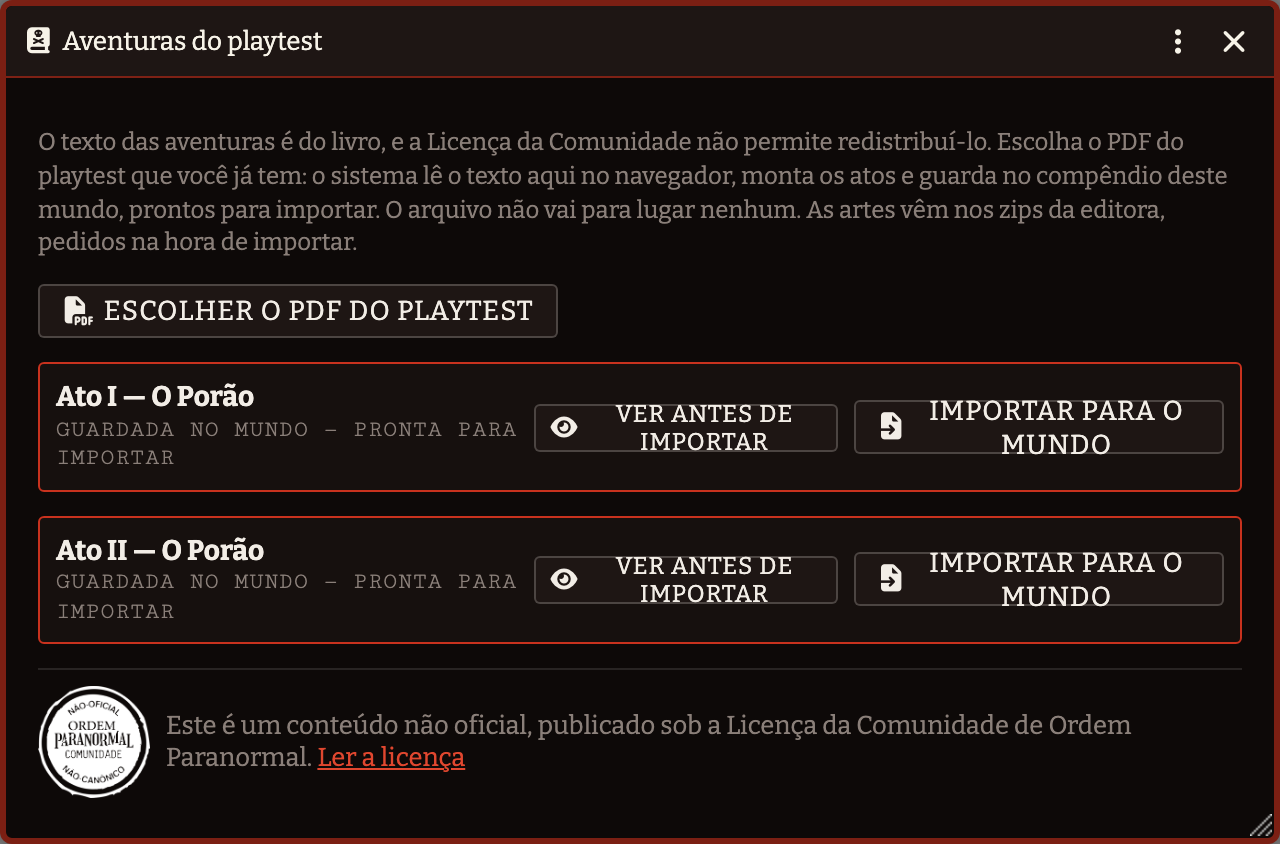
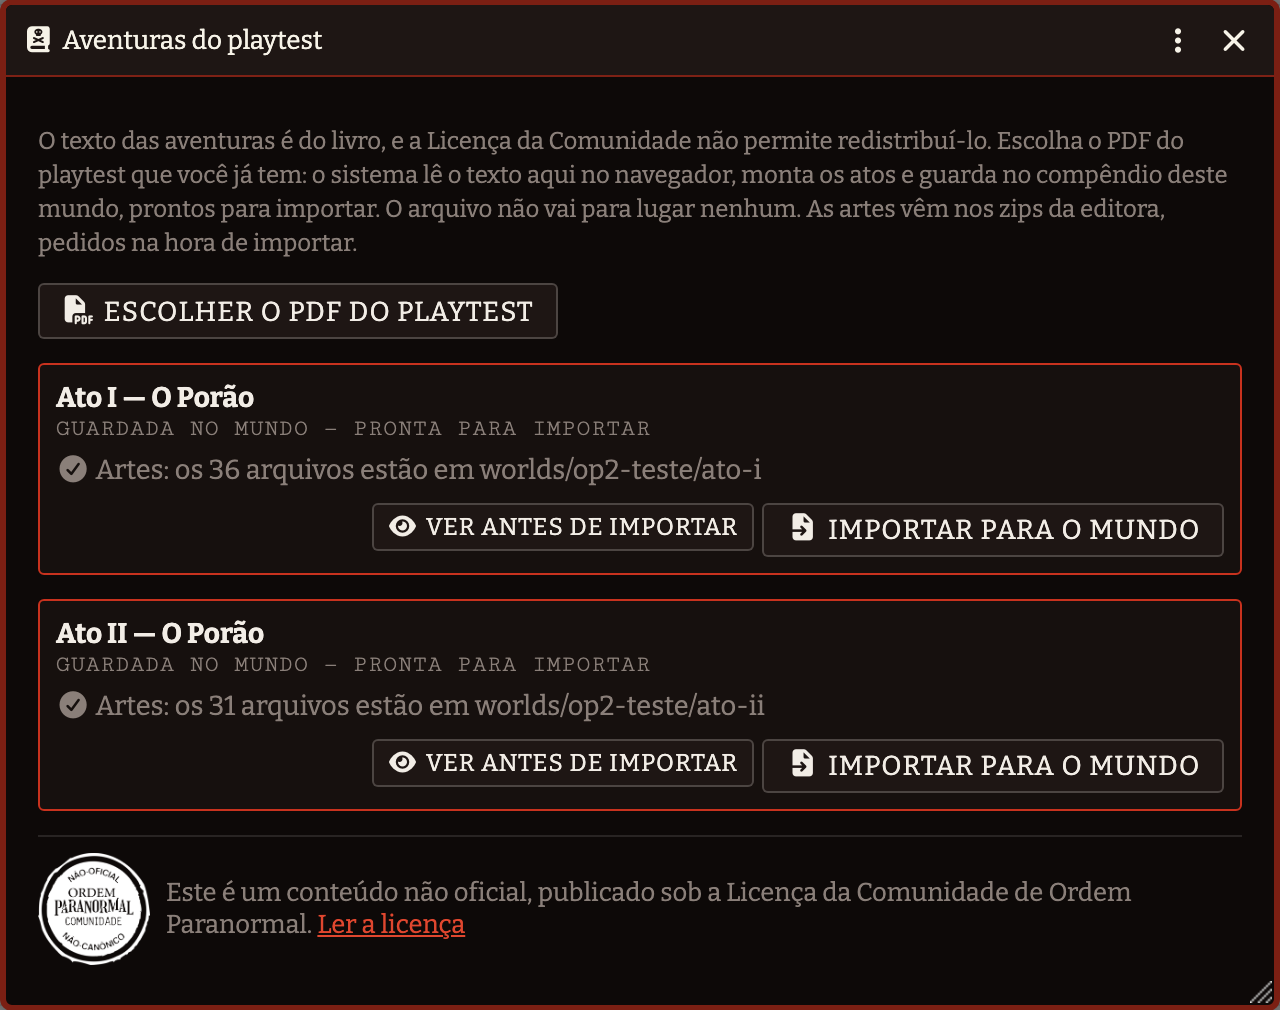
fix(aventuras): contradição do livro vira aviso, e a janela mostra as artes e oferece o zip
A revisão 1.1 do playtest imprime "SEU FILHO," num conjunto do Rádio e "sua
filha" na solução; a montagem lançava e o Ato II inteiro não montava — e a
janela dizia "Falta o PDF". Agora a peça mais parecida entra como verdadeira,
o aviso aparece na janela ao lado da conferência, e erro de montagem aparece
como "Não montada", com a mensagem.

A janela também diz o que há das artes na pasta do mundo e tem o botão de
enviar o zip antes de importar; os botões não quebram mais o texto. As
conferências dos dois atos rodam em paralelo — em série a janela demorava a
abrir.

`rodar.mjs --completo` passa a montar os dois atos: extração idêntica não
garantia montagem, e a revisão 1.1 só quebrava na janela. O e2e roda com o
PDF v1.1, confere o botão do zip e os botões numa linha, e ganhou um sinal de
vida a cada 90 s (print + janelas abertas). Foi ele que achou o travamento
intermitente: `cena.activate()` resolve antes de o canvas trocar de cena, o
redesenho limpava a mira e `atacar` abria o diálogo de alvo, prendendo a
suíte. O harness agora espera o canvas e falha em voz alta. O capturar
fotografa a caixa do elemento, sem a espera de "estável" do Playwright.

diff --git a/styles/parciais/_extras.scss b/styles/parciais/_extras.scss
@@ -111,6 +111,7 @@
     // Um ato por linha: nome e estado à esquerda, o que dá para fazer à direita.
     .op2-aventuras__ato {
       display: flex;
+      flex-wrap: wrap;
       align-items: center;
       padding: var(--op2-e2);
       border: 1px solid var(--op2-linha);
@@ -119,6 +120,33 @@
       gap: var(--op2-e2);
 
       &--pronto { border-color: var(--op2-vermelho); }
+    }
+
+    // Os botões numa linha só, sem quebrar o texto; se não couberem ao lado do
+    // nome, descem inteiros para a linha de baixo.
+    .op2-aventuras__acoes {
+      display: flex;
+      flex-wrap: wrap;
+      margin-left: auto;
+      gap: var(--op2-e1);
+
+      .op2-botao { white-space: nowrap; flex: 0 0 auto; }
+    }
+
+    .op2-aventuras__artes {
+      margin-top: var(--op2-e1);
+      color: var(--op2-texto-fraco);
+      font-size: 0.85rem;
+
+      &--faltam { color: var(--op2-vermelho-claro); }
+    }
+
+    .op2-aventuras__erro-detalhe {
+      display: block;
+      margin-top: var(--op2-e1);
+      font-size: 0.75rem;
+      white-space: pre-wrap;
+      word-break: break-word;
     }
 
     .op2-aventuras__identidade {

diff --git a/.claude/skills/revisar-extrator/SKILL.md b/.claude/skills/revisar-extrator/SKILL.md
@@ -34,6 +34,12 @@ node scripts/extrator/rodar.mjs <pdf> <pasta-do-gabarito> --texto --completo
 - Escreve `build/js/*.json` (o que o Foundry montaria) e `build/js/texto.txt` (a grade,
   para olhar).
 - Compara com o gabarito e lista diferença por caminho (`ato-i-pontos[13].informacoes[4].dt`).
+- **Monta os dois atos** (`montarAtoI`/`montarAtoII`, os mesmos da janela) e imprime
+  `montagem Ato II: … ok` ou `FALHOU — <erro>`, com os avisos da montagem. Extração
+  idêntica não garante montagem: a revisão 1.1 passou na comparação e derrubava o Ato
+  II na janela, porque o Rádio imprime "SEU FILHO," no conjunto e "sua filha" na
+  solução. A montagem agora avisa e segue; a lição é que **a revisão só está testada
+  quando montou** — extração, montagem e e2e, nunca só a comparação.
 - `OP2_MAX_DIFS=80` mostra mais linhas.
 
 **Gabaritos:**
@@ -97,9 +103,11 @@ node scripts/extrator/rodar.mjs <pdf> <pasta-do-gabarito> --texto --completo
 1. Ponha os arquivos em `jambo-arquivos/vN/…`.
 2. Rode a revisão anterior e guarde: `cp -r build/js build/js-anterior`.
 3. Rode a nova contra `build/js-anterior` (`--completo --texto`), e também o PDF
-   gratuito da revisão.
+   gratuito da revisão. Olhe as linhas `montagem Ato I/II`: têm que dizer `ok`, e
+   cada aviso é uma contradição do livro para registrar em `docs/LACUNAS.md`.
 4. Classifique cada diferença. Texto que mudou no livro: legítimo. Estrutura que mudou
    (contagem de pontos, linhas, DTs, perícias): investigue.
 5. `npm run check` e, com o Foundry descartável, `npm run e2e` com `OP2_E2E_PDF`
-   apontando para o PDF novo.
+   apontando para o PDF novo — é ele que abre a janela, monta e importa de verdade.
+   Sem esse passo a revisão **não** está testada.
 6. Atualize esta skill se aprendeu uma regra nova.

diff --git a/README.md b/README.md
@@ -213,6 +213,11 @@ gratuito basta para o Ato I.
 
 ![Janela de aventuras do playtest](docs/img/aventuras-do-playtest.png)
 
+A janela também diz o que há das artes na pasta do mundo e oferece **Enviar zip das
+artes** antes de importar — é o zip gratuito do Ato I do site da editora, e o dos
+Arquivos Secretos para o Ato II. Se você importar sem enviar, o importador pede o zip
+na hora.
+
 **Importe `Ato I — O Porão`** e o mundo recebe a cena com as paredes, a trilha, os
 cinco pré-gerados, os handouts, os pontos de interesse com o quadro de informações
 preenchido, os desafios e uma investigação com tudo já vinculado — mesa montada.
@@ -338,6 +343,9 @@ completo do playtest (o gratuito para no Ato I, e a janela diz isso). O extrator
 p. 72–103, confere cada ponto contra a tabela *Locais de uso de cada ferramenta* do
 livro — divergência aparece na janela como aviso, para conferir no livro — e a aventura
 `Ato II — O Porão` fica no compêndio do mundo. Ao importar, ela pede o zip das artes.
+Contradição do próprio livro também vira aviso, não erro: a revisão 1.1 imprime "SEU
+FILHO," num conjunto do Rádio e "sua filha" na solução, e a montagem toma o conjunto
+mais parecido como verdadeiro e avisa.
 
 Para o desenvolvimento, os mesmos geradores rodam no Node e escrevem os packs locais que
 o e2e usa:

diff --git a/scripts/e2e/README.md b/scripts/e2e/README.md
@@ -94,6 +94,13 @@ node scripts/e2e/verificar.mjs http://localhost:30099 /tmp
 Sai com código 1 se alguma verificação falhar ou se houver erro no console do browser.
 Grava `e2e-foundry.png` na pasta de saída.
 
+O relatório só sai no fim (uns 5 minutos). No meio, a cada 90 s, o harness escreve em
+stderr um sinal de vida — `[e2e 180s] print ok; janelas: …; console: …` — e um print
+do estado em `e2e-andamento.png` na pasta de saída. **Silêncio por mais de 90 s é
+travamento**, não lentidão: um diálogo aberto prende o `page.evaluate` para sempre.
+Olhe o print e a lista de janelas para achar o diálogo; se o print "trava", a página
+está presa em JS.
+
 Com `docs/Ordem-2-Playtest-Alpha-Ato-II-Extras.zip` presente, o harness também importa
 o Ato II pelo caminho de verdade: entrega o zip ao importador pelo `<input type=file>`,
 espera o upload, e confere no mundo os caminhos, os arquivos servidos, o laser e o

diff --git a/CHANGELOG.md b/CHANGELOG.md
@@ -36,7 +36,9 @@ Versões seguem [SemVer](https://semver.org/lang/pt-BR/).
   pacote — a Licença da Comunidade não permite. *Configurações → Aventuras do
   playtest*: o sistema lê o PDF do playtest no navegador, monta o Ato I (e o Ato II, se
   o PDF for o completo) e guarda no compêndio do mundo, pronto para importar. Lê as
-  revisões 1 e 1.1 do playtest e o PDF gratuito.
+  revisões 1 e 1.1 do playtest e o PDF gratuito; contradição do livro (o Rádio da 1.1)
+  vira aviso na janela, não erro. A janela mostra o que há das artes na pasta do mundo
+  e tem o botão de enviar o zip antes de importar.
 - **Nenhuma arte do livro vem no pacote.** As do Ato I são o zip gratuito do site da
   editora; as do Ato II vêm com a assinatura dos Arquivos Secretos. O sistema pede o
   zip de cada ato na hora de importar e guarda os arquivos na pasta do mundo.

diff --git a/docs/LACUNAS.md b/docs/LACUNAS.md
@@ -442,7 +442,9 @@ lado.
   ponto, a solução é um conjunto verdadeiro com as peças separadas por " | ", e cada
   peça falsa um conjunto falso. O app mistura tudo num monte, sem marca; o jogador
   ordena e descarta. Sem "|" em lugar nenhum, o conjunto é lido palavra a palavra, como
-  antes.
+  antes. A revisão 1.1 se contradiz no "Altar" de Madeira: o conjunto imprime "SEU
+  FILHO," e a solução "sua filha" — a montagem toma o conjunto mais parecido (distância
+  de edição) como verdadeiro e deixa o aviso na janela, em vez de não montar o ato.
 - **Rádio sem enigma.** No Ídolo o rádio só "sai um som horripilante similar a gritos":
   reação sem nada para ordenar. O slot do rádio ganhou `texto` ao lado de `conjuntos`;
   sem conjuntos, usar o rádio revela o texto como qualquer outra ferramenta, sem teste.
